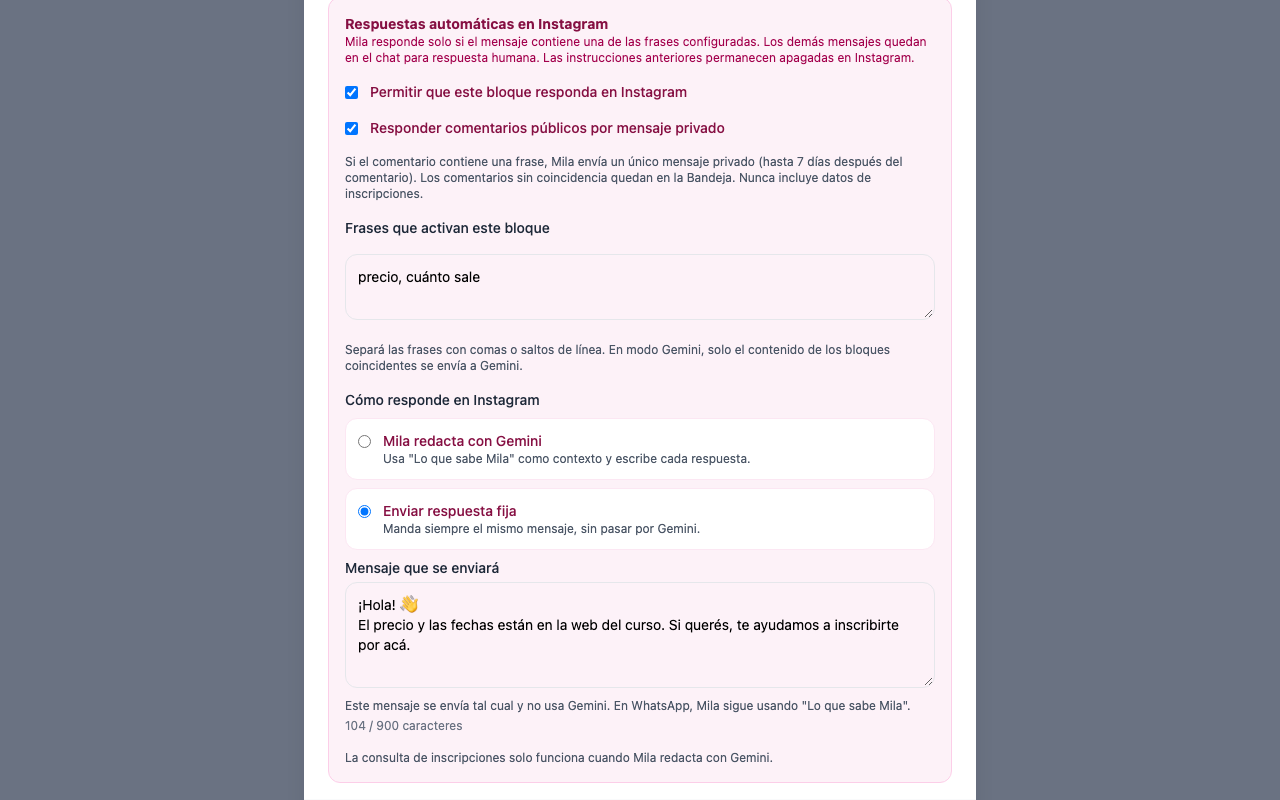
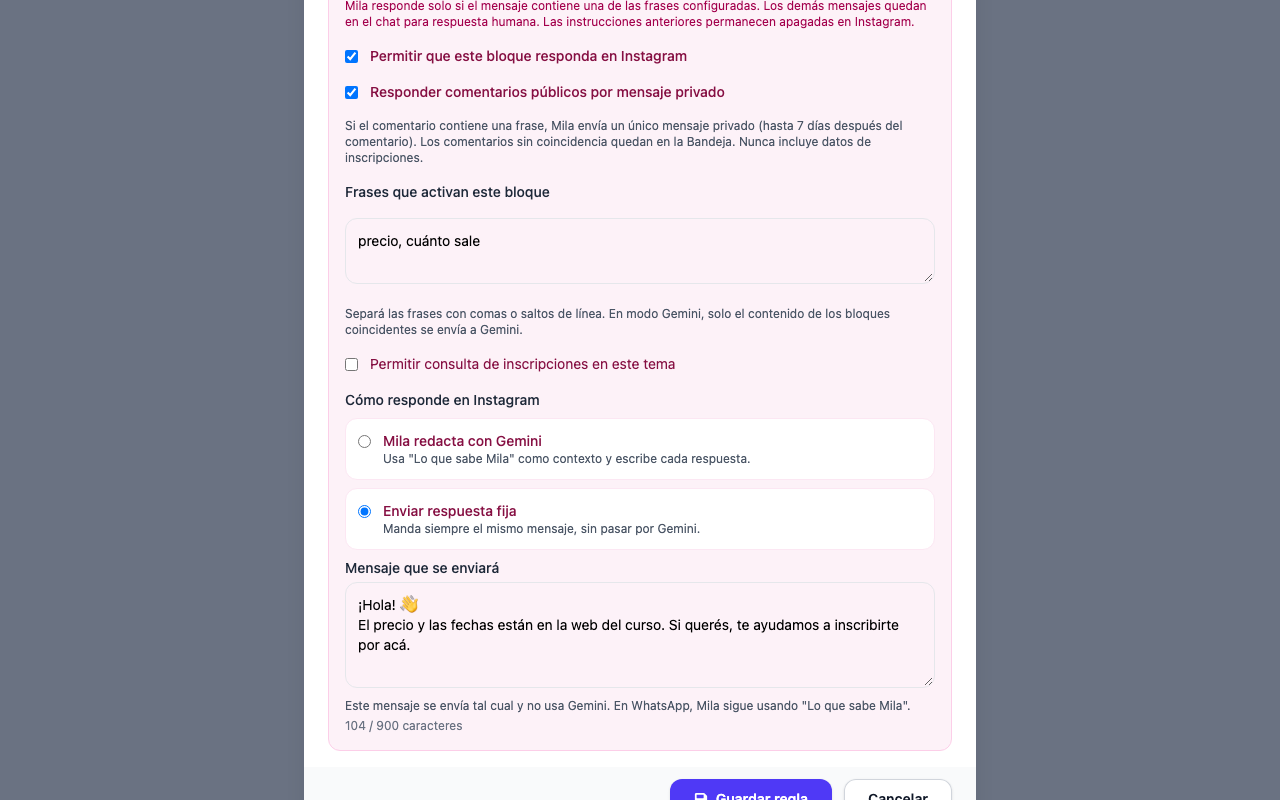
feat(bot): la respuesta fija puede convivir con la consulta de inscripciones

diff --git a/src/pages/bot-message/components/InstructionModal.tsx b/src/pages/bot-message/components/InstructionModal.tsx
@@ -72,8 +72,7 @@ const InstructionModal: React.FC<InstructionModalProps> = ({
   const handleSubmit = (e: React.FormEvent) => {
     e.preventDefault();
     const instagramKeywords = [...new Set(keywordText.split(/[,\n]/).map(value => value.trim()).filter(value => value.length >= 3))];
-    // The API rejects a fixed reply that also looks up enrollments: that lookup only works when Mila writes.
-    onSubmit({ ...formData, instagramKeywords, instagramEnrollmentLookup: !isFixed && formData.instagramEnrollmentLookup });
+    onSubmit({ ...formData, instagramKeywords });
   };
 
   return (
@@ -176,7 +175,7 @@ const InstructionModal: React.FC<InstructionModalProps> = ({
               <label className="block text-sm font-medium text-gray-800" htmlFor="instagramKeywords">Frases que activan este bloque</label>
               <textarea id="instagramKeywords" value={keywordText} onChange={e => setKeywordText(e.target.value)} rows={2} placeholder="camisa, cuellos, fecha del curso (mínimo 3 letras)" className="w-full rounded-xl border border-gray-200 p-3 text-sm" />
               <p className="text-xs text-gray-600">Separá las frases con comas o saltos de línea. En modo Gemini, solo el contenido de los bloques coincidentes se envía a Gemini.</p>
-              {formData.instagramAutoReply && !isFixed && (<>
+              {formData.instagramAutoReply && (<>
               <label className="flex items-center gap-3 text-sm text-pink-900">
                 <input type="checkbox" checked={formData.instagramEnrollmentLookup} onChange={e => setFormData({ ...formData, instagramEnrollmentLookup: e.target.checked })} />
                 Permitir consulta de inscripciones en este tema
@@ -193,7 +192,7 @@ const InstructionModal: React.FC<InstructionModalProps> = ({
               onFixedResponseChange={instagramFixedResponse => setFormData({ ...formData, instagramFixedResponse })}
             />
           )}
-          {formData.instagramAutoReply && isFixed && <p className="text-xs text-gray-600">La consulta de inscripciones solo funciona cuando Mila redacta con Gemini.</p>}
+          {formData.instagramAutoReply && isFixed && formData.instagramEnrollmentLookup && <p className="text-xs text-gray-600">En mensajes directos, las preguntas sobre el estado de una inscripción usan la consulta; las demás reciben el mensaje fijo, sin Gemini.</p>}
         </div>
       </form>
     </GlobalModal>

diff --git a/src/pages/bot-message/components/InstructionModal.test.tsx b/src/pages/bot-message/components/InstructionModal.test.tsx
@@ -161,18 +161,27 @@ describe('InstructionModal', () => {
       expect(fixedText()).toHaveValue('Hola 👋\nTe paso el link');
     });
 
-    it('hides enrollment lookup in fixed mode and never submits that contradictory combination', async () => {
+    it('keeps enrollment lookup in fixed mode and explains which questions each one answers', async () => {
       const onSubmit = vi.fn();
       render(<InstructionModal isOpen onClose={vi.fn()} onSubmit={onSubmit} loading={false}
         instruction={{ ...fixedRule, instagramResponseMode: 'gemini', instagramEnrollmentLookup: true }} />);
-      expect(screen.getByLabelText('Permitir consulta de inscripciones en este tema')).toBeChecked();
+      const lookup = () => screen.getByLabelText('Permitir consulta de inscripciones en este tema');
+      expect(lookup()).toBeChecked();
 
       await userEvent.click(fixedOption());
-      expect(screen.queryByLabelText('Permitir consulta de inscripciones en este tema')).not.toBeInTheDocument();
-      expect(screen.getByText(/consulta de inscripciones solo funciona cuando Mila redacta/)).toBeInTheDocument();
+      expect(lookup()).toBeChecked();
+      expect(screen.getByText(/preguntas sobre el estado de una inscripción usan la consulta; las demás reciben el mensaje fijo/)).toBeInTheDocument();
       await userEvent.click(save());
 
-      expect(onSubmit).toHaveBeenCalledWith(expect.objectContaining({ instagramResponseMode: 'fixed', instagramEnrollmentLookup: false }));
+      expect(onSubmit).toHaveBeenCalledWith(expect.objectContaining({ instagramResponseMode: 'fixed', instagramEnrollmentLookup: true }));
+    });
+
+    it('lets a fixed rule turn enrollment lookup on', async () => {
+      const onSubmit = vi.fn();
+      render(<InstructionModal isOpen onClose={vi.fn()} onSubmit={onSubmit} loading={false} instruction={fixedRule} />);
+      await userEvent.click(screen.getByLabelText('Permitir consulta de inscripciones en este tema'));
+      await userEvent.click(save());
+      expect(onSubmit).toHaveBeenCalledWith(expect.objectContaining({ instagramResponseMode: 'fixed', instagramEnrollmentLookup: true }));
     });
   });
 });

diff --git a/e2e/chat.spec.ts b/e2e/chat.spec.ts
@@ -98,13 +98,14 @@ test('every tab renders its content', async ({ page }) => {
   await expect(page.getByLabel('Responder consultas de inscripción por WhatsApp')).toBeVisible();
 });
 
-test('turns a rule into a fixed Instagram reply and sends it apart from the Mila context', async ({ page }) => {
+test('turns a rule into a fixed Instagram reply with enrollment lookup, apart from the Mila context', async ({ page }) => {
   await page.getByRole('tab', { name: 'Respuestas automáticas' }).click();
   await expect(page.getByRole('article', { name: 'Precio del curso' }).getByText('Se envía tal cual, sin Gemini.')).toBeVisible();
 
   await page.getByRole('button', { name: 'Editar regla Curso camisa' }).click();
   await page.getByRole('radio', { name: /Enviar respuesta fija/ }).check();
   await page.getByLabel('Mensaje que se enviará').fill('Hola 👋\nEl curso empieza el sábado.');
+  await page.getByLabel('Permitir consulta de inscripciones en este tema').check();
   await page.getByRole('button', { name: 'Guardar regla' }).click();
 
   await expect(page.getByRole('button', { name: 'Guardar regla' })).toBeHidden();
@@ -113,7 +114,7 @@ test('turns a rule into a fixed Instagram reply and sends it apart from the Mila
     content: 'El curso comienza el 23 de noviembre.',
     instagramResponseMode: 'fixed',
     instagramFixedResponse: 'Hola 👋\nEl curso empieza el sábado.',
-    instagramEnrollmentLookup: false,
+    instagramEnrollmentLookup: true,
   }) }]);
 });
 

diff --git a/src/pages/bot-message/tabs/TrainingTab.test.tsx b/src/pages/bot-message/tabs/TrainingTab.test.tsx
@@ -66,7 +66,7 @@ describe('TrainingTab (Respuestas automáticas)', () => {
   it('tells a fixed Instagram reply apart from a rule Mila writes from', async () => {
     service.getInstructions.mockResolvedValue([
       instruction,
-      { ...instruction, _id: 'i2', title: 'Precios', instagramResponseMode: 'fixed', instagramFixedResponse: 'El precio está en la web' },
+      { ...instruction, _id: 'i2', title: 'Precios', instagramResponseMode: 'fixed', instagramFixedResponse: 'El precio está en la web', instagramEnrollmentLookup: true },
     ]);
     await renderLoaded();
 
@@ -74,6 +74,7 @@ describe('TrainingTab (Respuestas automáticas)', () => {
     expect(within(fixed).getByText('Respuesta fija en Instagram')).toBeInTheDocument();
     expect(within(fixed).getByText('El precio está en la web')).toBeInTheDocument();
     expect(within(fixed).getByText(/Se envía tal cual, sin Gemini/)).toBeInTheDocument();
+    expect(within(fixed).getByText('Puede consultar inscripciones por Instagram.')).toBeInTheDocument();
     expect(within(rule()).queryByText('Respuesta fija en Instagram')).not.toBeInTheDocument();
     expect(within(rule()).getByText(/Mila redacta con este texto; no lo envía tal cual/)).toBeInTheDocument();
   });

diff --git a/src/pages/bot-message/components/RuleCard/index.tsx b/src/pages/bot-message/components/RuleCard/index.tsx
@@ -36,7 +36,7 @@ export const RuleCard = ({ rule, onEdit, onDelete }: RuleCardProps) => {
             </li>
           ))}
         </ul>
-        {rule.enrollmentLookup && rule.instagramDirect && !sendsFixed && <p className="mt-1 text-xs text-amber-700">Puede consultar inscripciones por Instagram.</p>}
+        {rule.enrollmentLookup && rule.instagramDirect && <p className="mt-1 text-xs text-amber-700">Puede consultar inscripciones por Instagram.</p>}
       </div>
 
       {rule.keywords.length > 0 && (

diff --git a/docs/agent/contracts.md b/docs/agent/contracts.md
@@ -3,7 +3,7 @@
 - Consume `GET /api/admin/acquisition/{overview,channels,funnel,quality,live,journeys,journeys/:visitId}` (solo admin). Los tipos del contrato están en `src/pages/acquisition/services/types.ts` y se mantienen a mano: si la API cambia, actualizar ahí y en `testing/fixtures.ts`.
 - Modo `acquisition_cohort`: las tasas visita→lead/compra existen; en `event_period` llegan `null` y el panel muestra "No aplica". `totalSiteVisits` y `measurementCoverage` son `null` hasta conectar una fuente independiente: el panel nunca llama "tráfico total" a las visitas con consentimiento.
 - Instrucciones del bot: campos `instagramAutoReply`, `instagramKeywords` (frases) e `instagramEnrollmentLookup`. Sin frase activa Instagram no responde; el tipo vive en `src/pages/bot-message/types/index.ts` y se mantiene a mano con la API.
-- Modo de respuesta en Instagram: `instagramResponseMode` (`gemini` | `fixed`; sin el campo = `gemini`) e `instagramFixedResponse` (texto enviado tal cual; máx. 900 caracteres y 1000 bytes, como la API). El formulario siempre manda ambos y, en modo fijo, `instagramEnrollmentLookup: false` (la API rechaza esa combinación). Evidencia: `utils/fixedReply.ts`, `components/InstructionModal.tsx`.
+- Modo de respuesta en Instagram: `instagramResponseMode` (`gemini` | `fixed`; sin el campo = `gemini`) e `instagramFixedResponse` (texto enviado tal cual; máx. 900 caracteres y 1000 bytes, como la API). El formulario siempre manda ambos; el modo fijo admite `instagramEnrollmentLookup` (la consulta responde primero las preguntas de inscripción). Evidencia: `utils/fixedReply.ts`, `components/InstructionModal.tsx`.
 - `GET|PUT /api/chat/enrollment-config`: `{ whatsappLookupEnabled, templates, defaults }`. Las reglas de `fields.ts` (solo `{curso}`, líneas por estado con `{curso}`, máx. 500) duplican las de la API: si cambian allí, actualizar ahí. Evidencia: `src/services/bot-enrollment/`.
 - El PUT envía solo los textos que difieren de `defaults` (recortados): lo omitido vuelve al original del servidor, así "Restaurar" no fija textos viejos. Evidencia: `customizedTemplates` en `fields.ts`.
 - Instrucciones: `instagramCommentReply` (def. falso, independiente de `instagramAutoReply`; comparte `instagramKeywords`). Los mensajes de conversación pueden traer `kind: 'comment' | 'private_reply'` (ausente = DM) y `status: 'failed'` para respuestas privadas rechazadas; se etiquetan con `getMessageKindLabel`. Evidencia: `src/pages/bot-message/utils/messageKind.ts`.

diff --git a/docs/guia-mensajes.md b/docs/guia-mensajes.md
@@ -16,7 +16,7 @@ Cómo funciona la sección, qué cambió en cada PR y cómo se ve. Datos de las 
 - **WhatsApp:** usa todos los bloques activos, más FAQ y cursos.
 - **Instagram (mensaje directo):** solo si la regla tiene "Permitir que este bloque responda en Instagram" y una de sus frases aparece en el mensaje. Si nada coincide, el mensaje queda para el equipo.
 - **Instagram (comentario):** solo si la regla tiene "Responder comentarios públicos por mensaje privado" y coincide una frase. La respuesta va **por mensaje privado**, una vez por comentario. No hay respuesta pública bajo la publicación.
-- **Respuesta fija (opcional por regla):** en "Cómo responde en Instagram" se elige "Enviar respuesta fija" y se escribe el "Mensaje que se enviará". Cuando coincide una frase, ese texto sale tal cual, sin Gemini (en DM y en la respuesta privada a comentarios). Si coinciden varias reglas fijas gana la de menor orden; una regla fija gana sobre las de Gemini. La consulta de inscripciones sigue primero y no se puede combinar con respuesta fija. En WhatsApp nada cambia: Mila usa "Lo que sabe Mila".
+- **Respuesta fija (opcional por regla):** en "Cómo responde en Instagram" se elige "Enviar respuesta fija" y se escribe el "Mensaje que se enviará". Cuando coincide una frase, ese texto sale tal cual, sin Gemini (en DM y en la respuesta privada a comentarios). Si coinciden varias reglas fijas gana la de menor orden; una regla fija gana sobre las de Gemini. Una regla fija puede tener también la consulta de inscripciones: en mensajes directos, las preguntas sobre el estado de una inscripción usan la consulta y las demás reciben el texto fijo. En WhatsApp nada cambia: Mila usa "Lo que sabe Mila".
 - Las frases no distinguen mayúsculas ni acentos y buscan el inicio de palabra: "curso" también activa con "cursos".
 
 ### Límites que la pantalla no puede saltear

diff --git a/.ai-review/reports/2026-11-23-instagram-fixed-replies.md b/.ai-review/reports/2026-11-23-instagram-fixed-replies.md
@@ -1,0 +1,17 @@
+# Revisión: respuestas fijas en Instagram (api #12 + admin #9)
+
+Agentes: 01 pruebas, 02 adversarial, 03 seguridad (solo lectura, sobre `git diff origin/main` de ambos repos), tras el ajuste "fija + consulta de inscripciones en la misma regla".
+
+| Hallazgo | Agentes | Estado |
+|---|---|---|
+| MEDIO: la respuesta privada a comentarios recortaba con `.slice(0, 900)` (UTF-16) y partía emojis de un texto fijo válido | 01, 02, 03 | Corregido: el fijo sale entero; lo generado se recorta por code points. Tests con emojis en el borde. |
+| MEDIO: un número sin email ("cuesta 150.000 - 200.000") se tomaba como dato de contacto y tapaba el texto fijo | 02 | Corregido: hace falta un email en el mensaje o en los recientes. Tests en servicio y flujo. |
+| MEDIO/BAJO: tras una pregunta de inscripción, la misma persona sigue recibiendo el pedido de datos 10 min | 01, 02 | Aceptado y fijado con test; documentado en `api/docs/agent/traps.md`. |
+| BAJO: aserción débil del pedido de datos | 01 | Corregido (`askContact` exacto). |
+| BAJO: desempate por `_id` sin test | 01 | Test agregado (ids insertados al revés). |
+| BAJO: `PUT` lee y escribe en dos pasos | 02 | Aceptado: una fija sin texto se ignora en ejecución; documentado. |
+| Seguridad (rutas admin, Zod, NoSQL, XSS, logs, datos de inscripción, prompt de Gemini) | 03 | Sin hallazgos. |
+
+Preexistente, fuera de alcance: si falla guardar el mensaje después de enviarlo, el reintento de Meta puede duplicar la respuesta; al desmarcar "responder en Instagram" la consulta de inscripciones queda guardada oculta.
+
+No verificado: Meta real, Gemini real, admin contra la API real.

diff --git a/CHANGELOG.md b/CHANGELOG.md
@@ -1,7 +1,7 @@
 # Changelog
 
 ## [Unreleased]
-- Respuestas automáticas: una regla puede enviar en Instagram una respuesta fija, tal cual y sin Gemini; las reglas existentes siguen con Mila redactando.
+- Respuestas automáticas: una regla puede enviar en Instagram una respuesta fija, tal cual y sin Gemini, y combinarla con la consulta de inscripciones; las reglas existentes siguen con Mila redactando.
 - Rediseña "Mensajes": Bandeja con búsqueda, reglas de respuesta automática explicadas por canal, plantillas y confirmaciones accesibles, usable en celular. Mismas llamadas al API.
 - Mensajes: pruebas de página y en navegador (escritorio y móvil) que fijan el comportamiento actual, más revisión multiagente en `.ai-review/`.
 - Agrega "Facturas": listado con filtros, ver/imprimir, reenviar el mail y reintentar las pendientes o con error.
